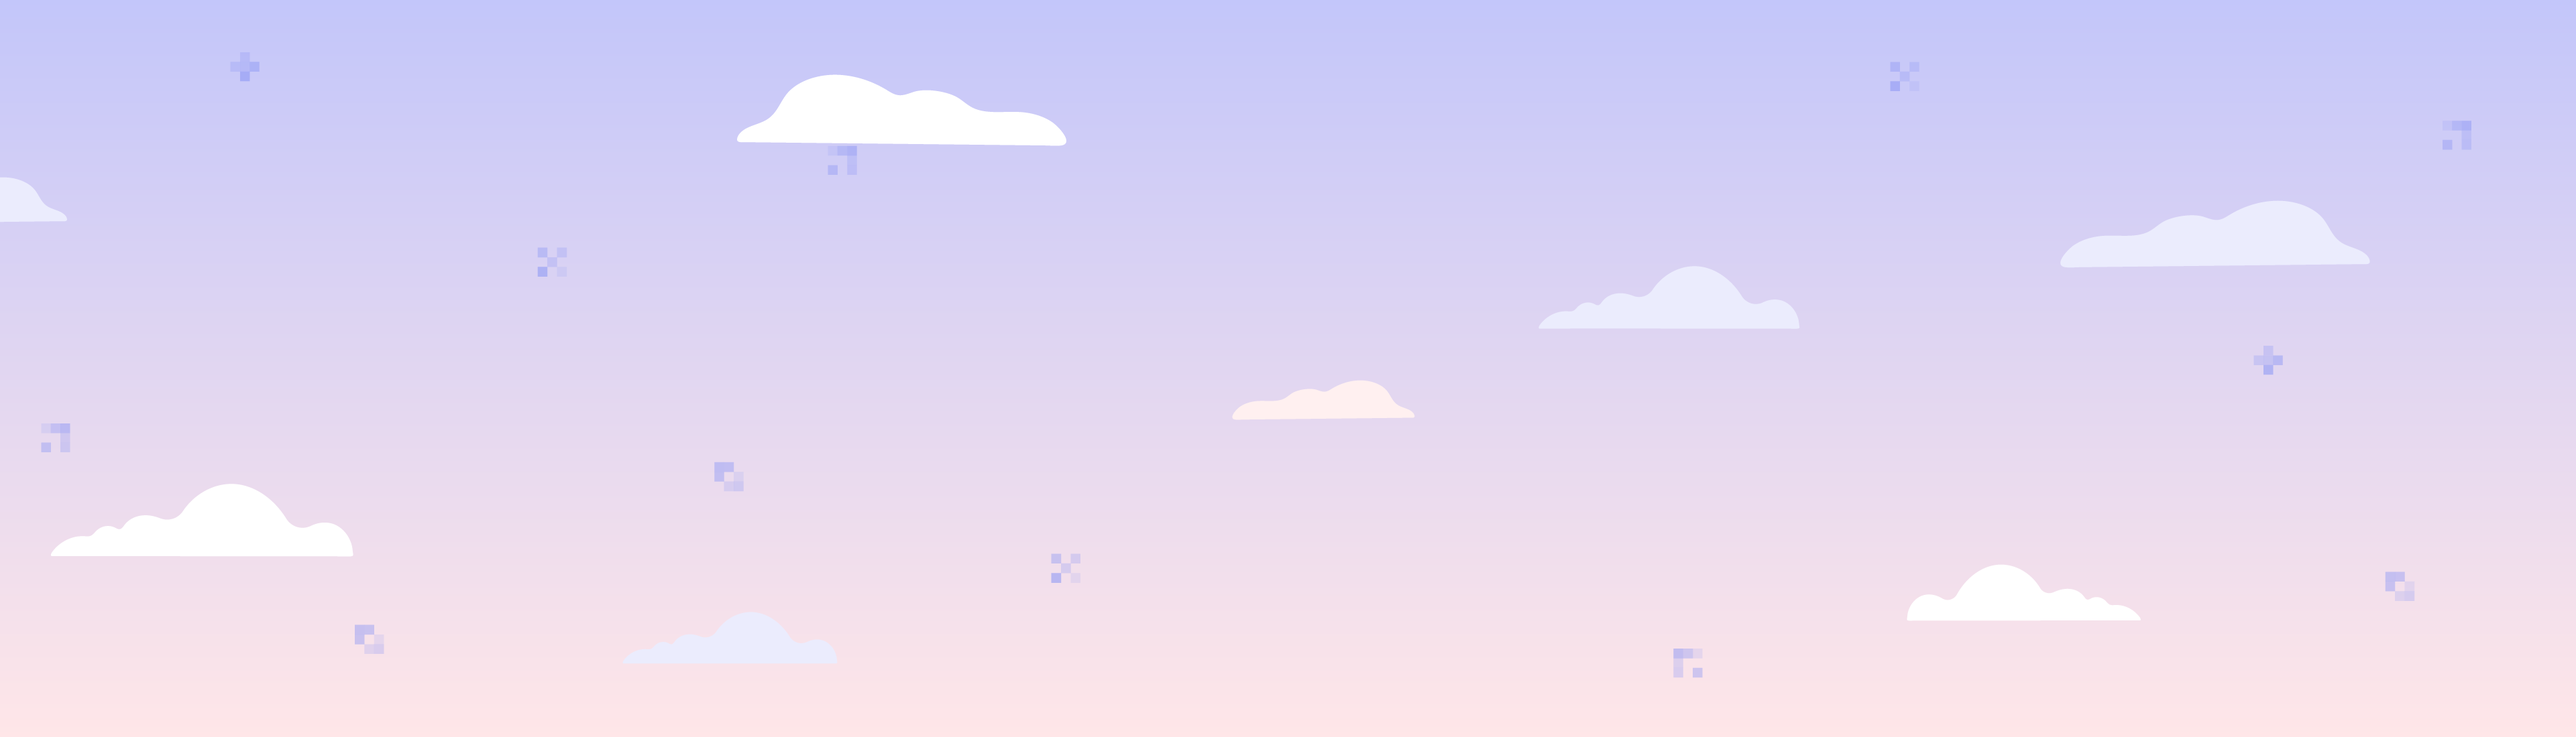
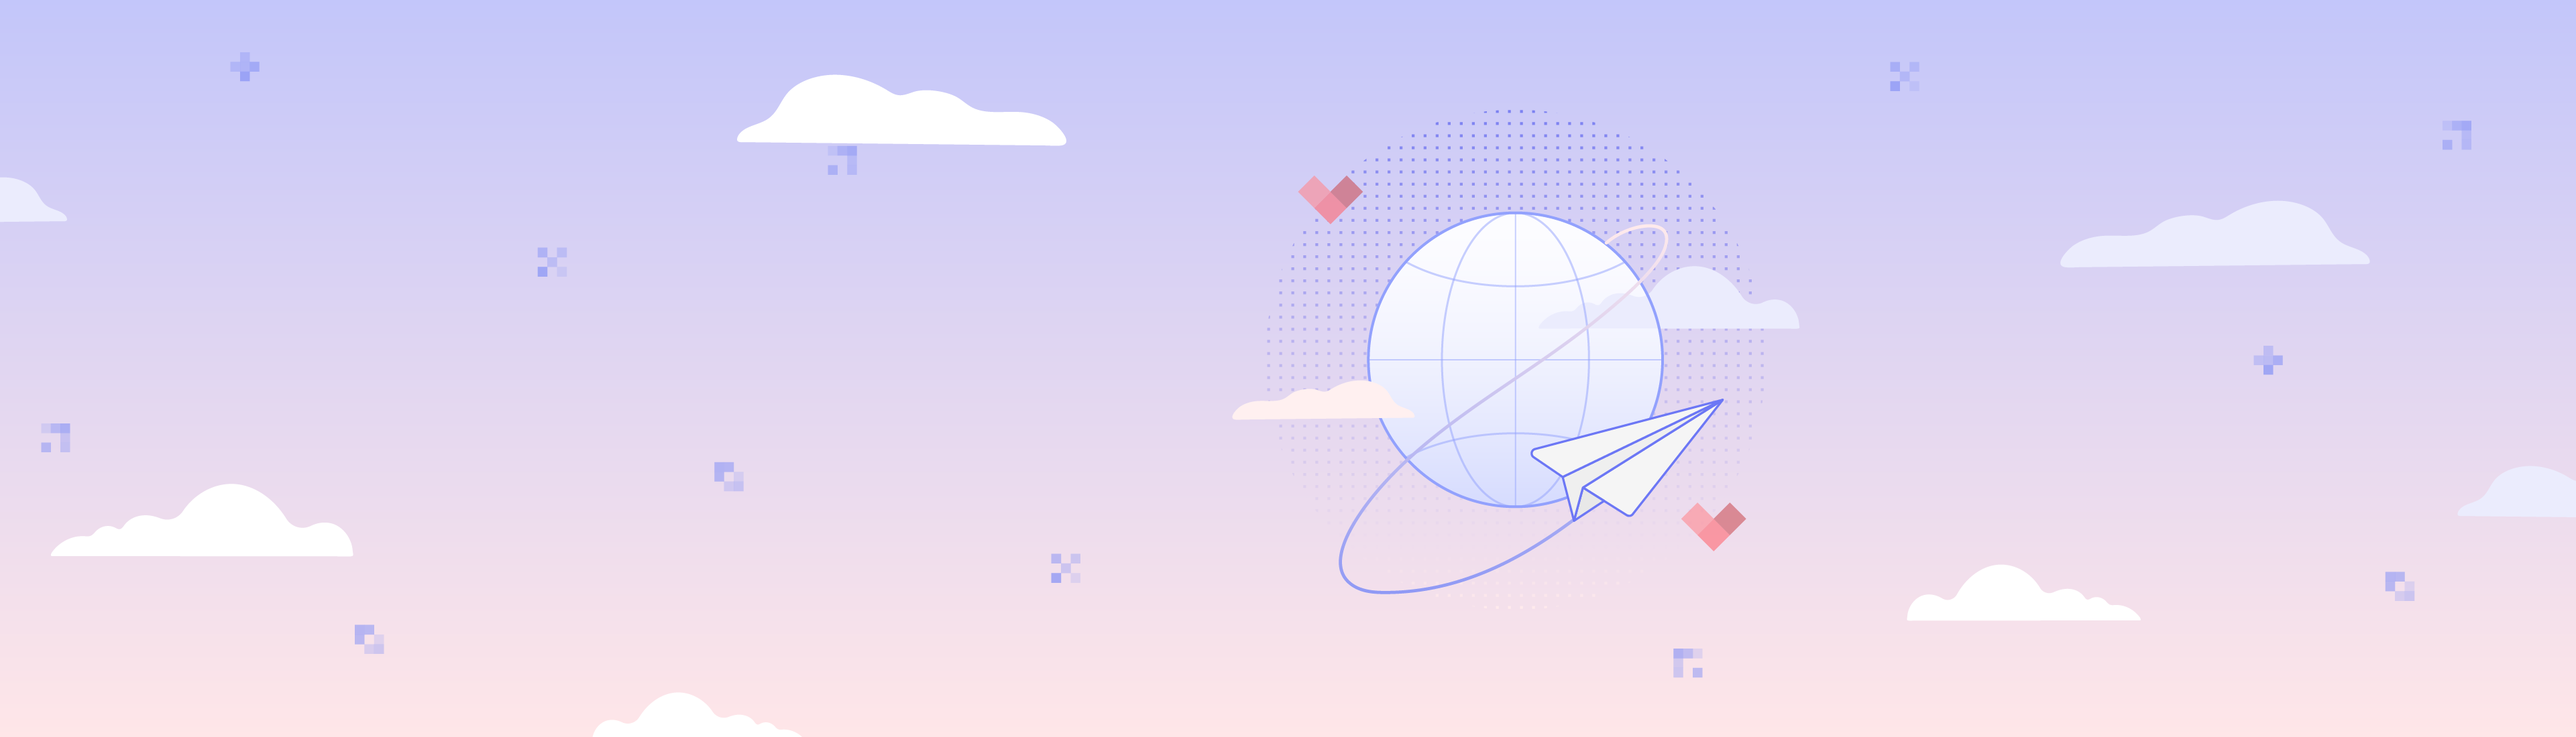
updated breakpoint

diff --git a/source/sass/components/donate-banner.scss b/source/sass/components/donate-banner.scss
@@ -3,9 +3,13 @@
 
 .donate-banner {
   background-color: $white;
-  background-image: url(../_images/mozilla-donate-dear-internet.png);
+  background-image: url(../_images/mozilla-donate-dear-internet-mobile.png);
   background-size: cover;
   background-position: center center;
+
+  @media (min-width: $bp-lg) {
+    background-image: url(../_images/mozilla-donate-dear-internet.png);
+  }
 }
 
 .btn-banner {
